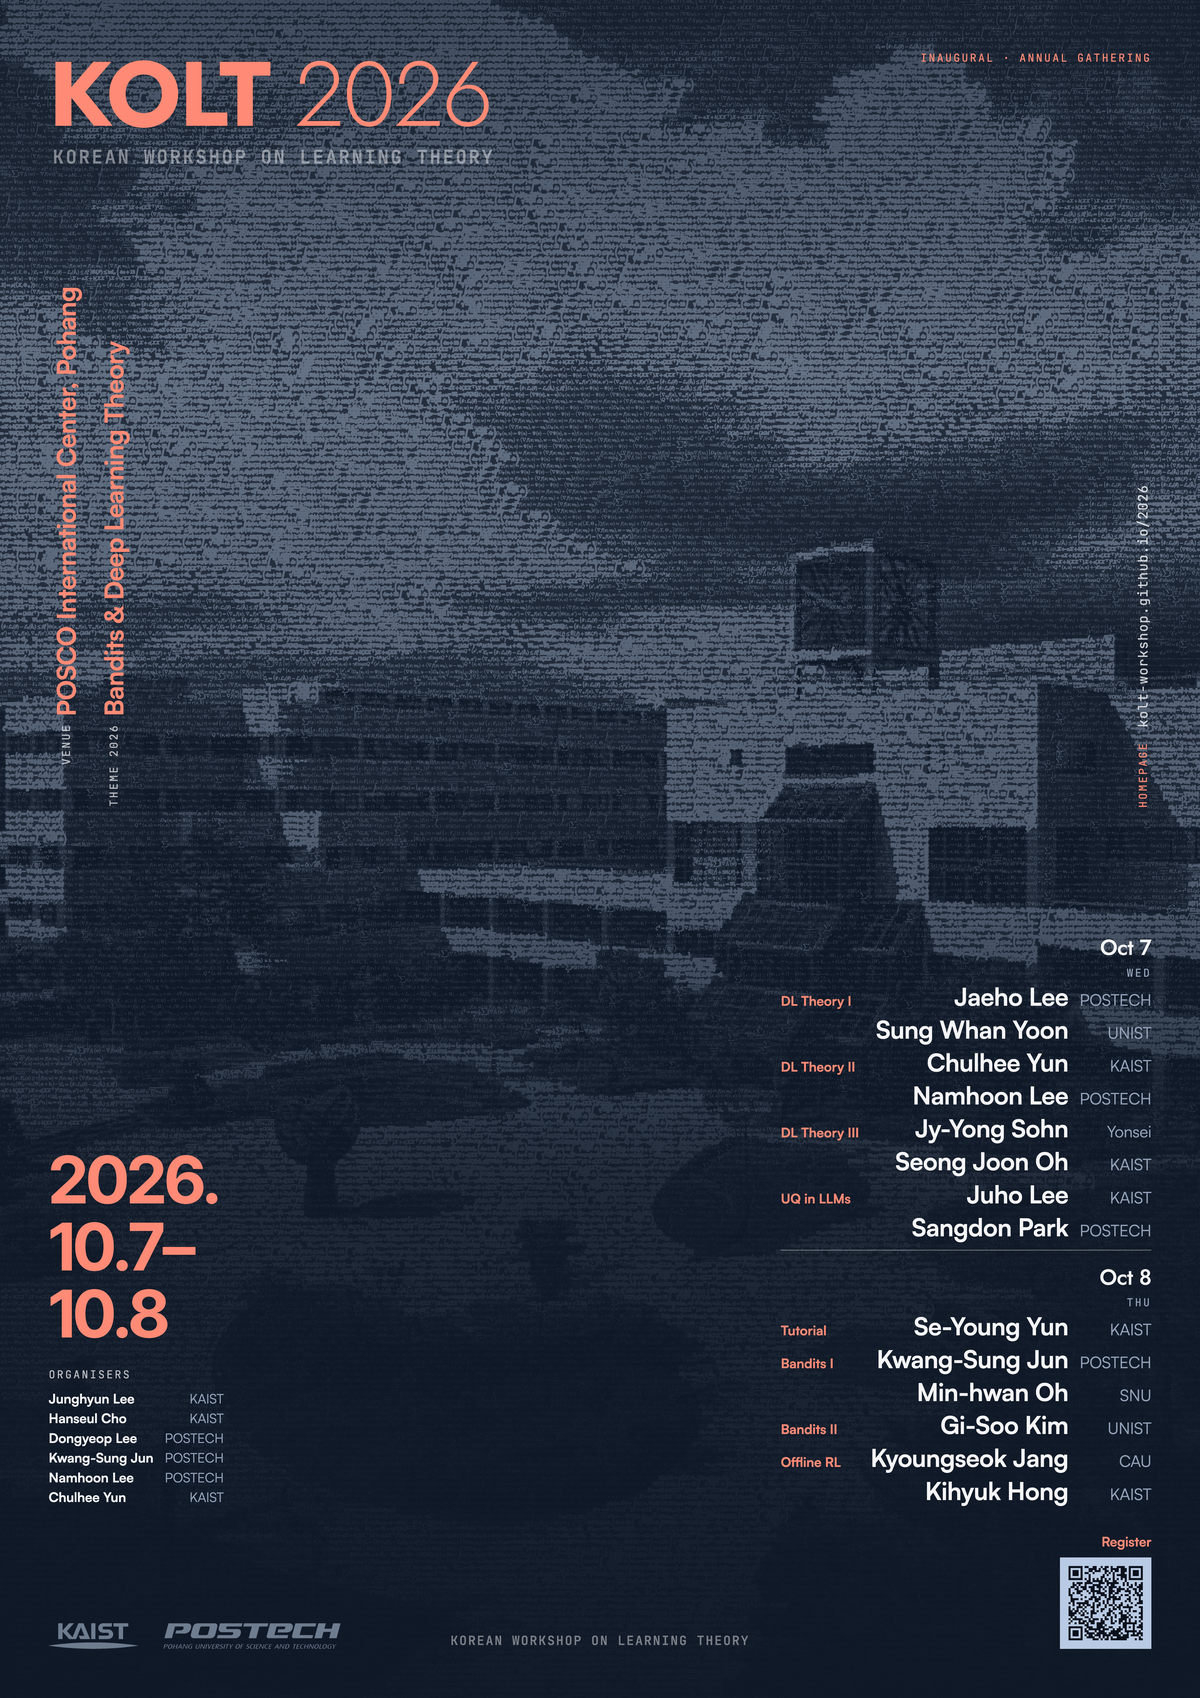
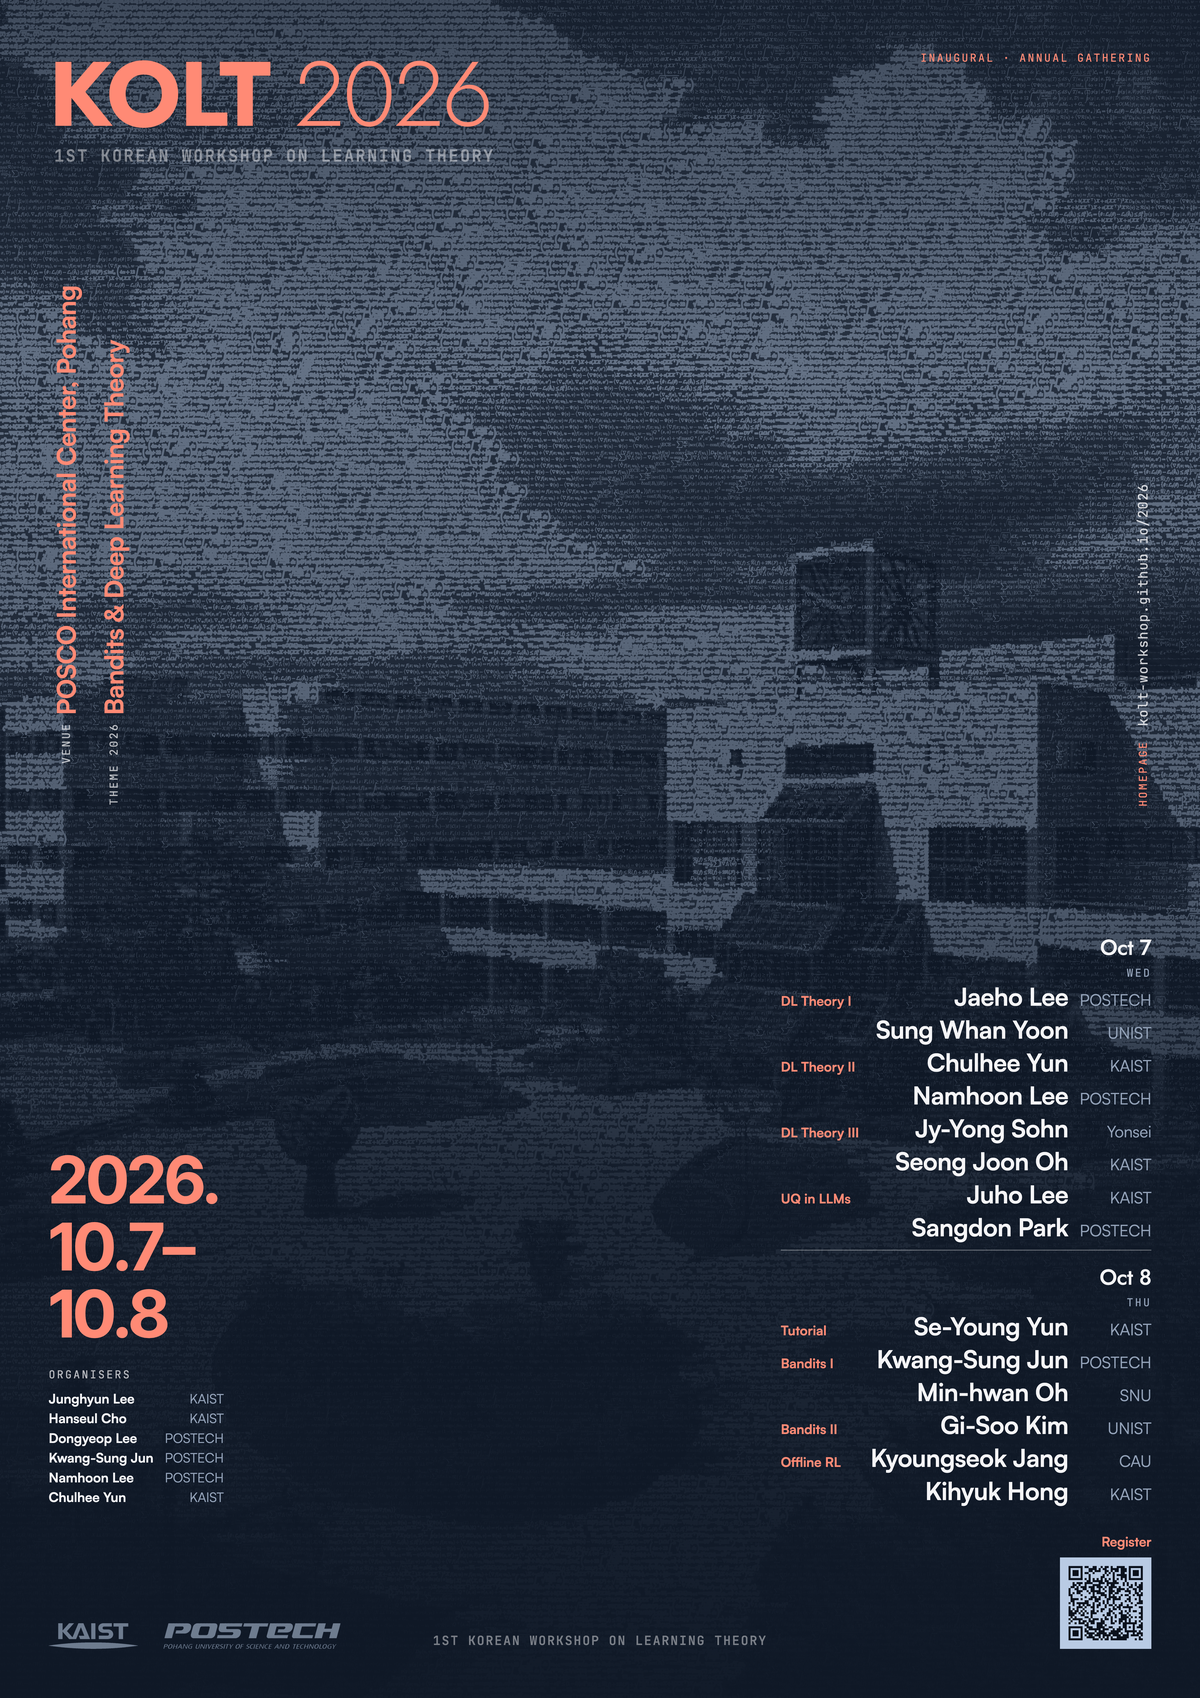
Say which edition it is, on the sheet
1st in front of the name, under the mark and along the foot. The banners and
the badges keep the plain name: a first edition is news on a poster and clutter
on a name tag.

The line under the mark is 5.8mm rather than 6.5 so it still ends where KOLT
2026 ends. The face is monospaced, so its width goes with the character count
and nothing else — 33 characters at 6.5mm set 154.7mm and 1st adds four more,
which is the whole of the arithmetic. Measured after: the mark is 155.0mm and
the line 154.3mm, and both start on the same pixel once the sidebearing
correction follows the size, 1.4mm to 1.9mm.

diff --git a/tools/poster.py b/tools/poster.py
@@ -590,17 +590,18 @@ FESTIVAL = """<!doctype html>
      mark rather than as a line of its own, which is what it is — the mark
      spelled out. Held closer to the title and fainter for the same reason.
 
-     6.5mm, which is the size at which the line ends where the mark ends. KOLT
-     2026 sets 155mm; at 8mm this ran 190mm and overhung it by 35, so the two
-     lines had no relationship at either end. Now they share both.
+     5.8mm, which is the size at which the line ends where the mark ends. KOLT
+     2026 sets 155mm. The face is monospaced, so the width goes with the
+     character count and nothing else: at 6.5mm the shorter name set 154.7mm
+     over 33 characters, and 1st adds four more.
 
      The optical indent stays optical but the number changes with the face and
      the size: JetBrains Mono's sidebearing is 0.080 of the em against Jost's
-     0.0738, so against a 32mm mark and a 6.5mm line the correction is 1.4mm. */
+     0.0738, so against a 32mm mark and a 5.8mm line the correction is 1.9mm. */
   .longname {{
-    font-family:"JetBrains Mono",monospace; font-weight:600; font-size:6.5mm;
+    font-family:"JetBrains Mono",monospace; font-weight:600; font-size:5.8mm;
     letter-spacing:.1em; text-transform:uppercase; color:{ink};
-    opacity:.46; margin:1.6mm 0 0 1.4mm;
+    opacity:.46; margin:1.6mm 0 0 1.9mm;
   }}
   .cols h4 {{
     font-family:"JetBrains Mono",monospace; font-size:3.4mm; font-weight:500;
@@ -858,7 +859,7 @@ FESTIVAL = """<!doctype html>
   <div class="wrap">
     <div class="top">
       <div><h1 class="mark">{mark} <span>{year}</span></h1>
-        <p class="longname">{long_name}</p></div>
+        <p class="longname">{long_name_ed}</p></div>
       <div class="stamps">{eyebrow}</div>
     </div>
     <div class="rails">
@@ -877,7 +878,7 @@ FESTIVAL = """<!doctype html>
       </div>
       <div class="foot">
         <span class="marks">{logos}</span>
-        <p class="footname">{long_name}</p>
+        <p class="footname">{long_name_ed}</p>
         <div class="cta"><b>{cta_short}</b><div class="qr-plate">{qr}</div></div>
       </div>
     </div>
@@ -2054,6 +2055,10 @@ def main(art_path, out_path, layout="stack", photo=None, cutout=None, duotone=No
         # letters of the acronym can be picked out; set as a plain line that
         # casing reads as a typo, so it is normalised back here.
         long_name=esc(site["full_name"].title().replace(" On ", " on ")),
+        # The sheet says which one this is; the banners and the badges do not,
+        # because a first edition is news on a poster and clutter on a name tag.
+        long_name_ed=esc(f'{site["edition"]} '
+                         + site["full_name"].title().replace(" On ", " on ")),
         ghost=ghost_layer,
         d1=esc(str(program["days"][0]["date"]).split("-")[-1]),
         d2=esc(str(program["days"][-1]["date"]).split("-")[-1]),
